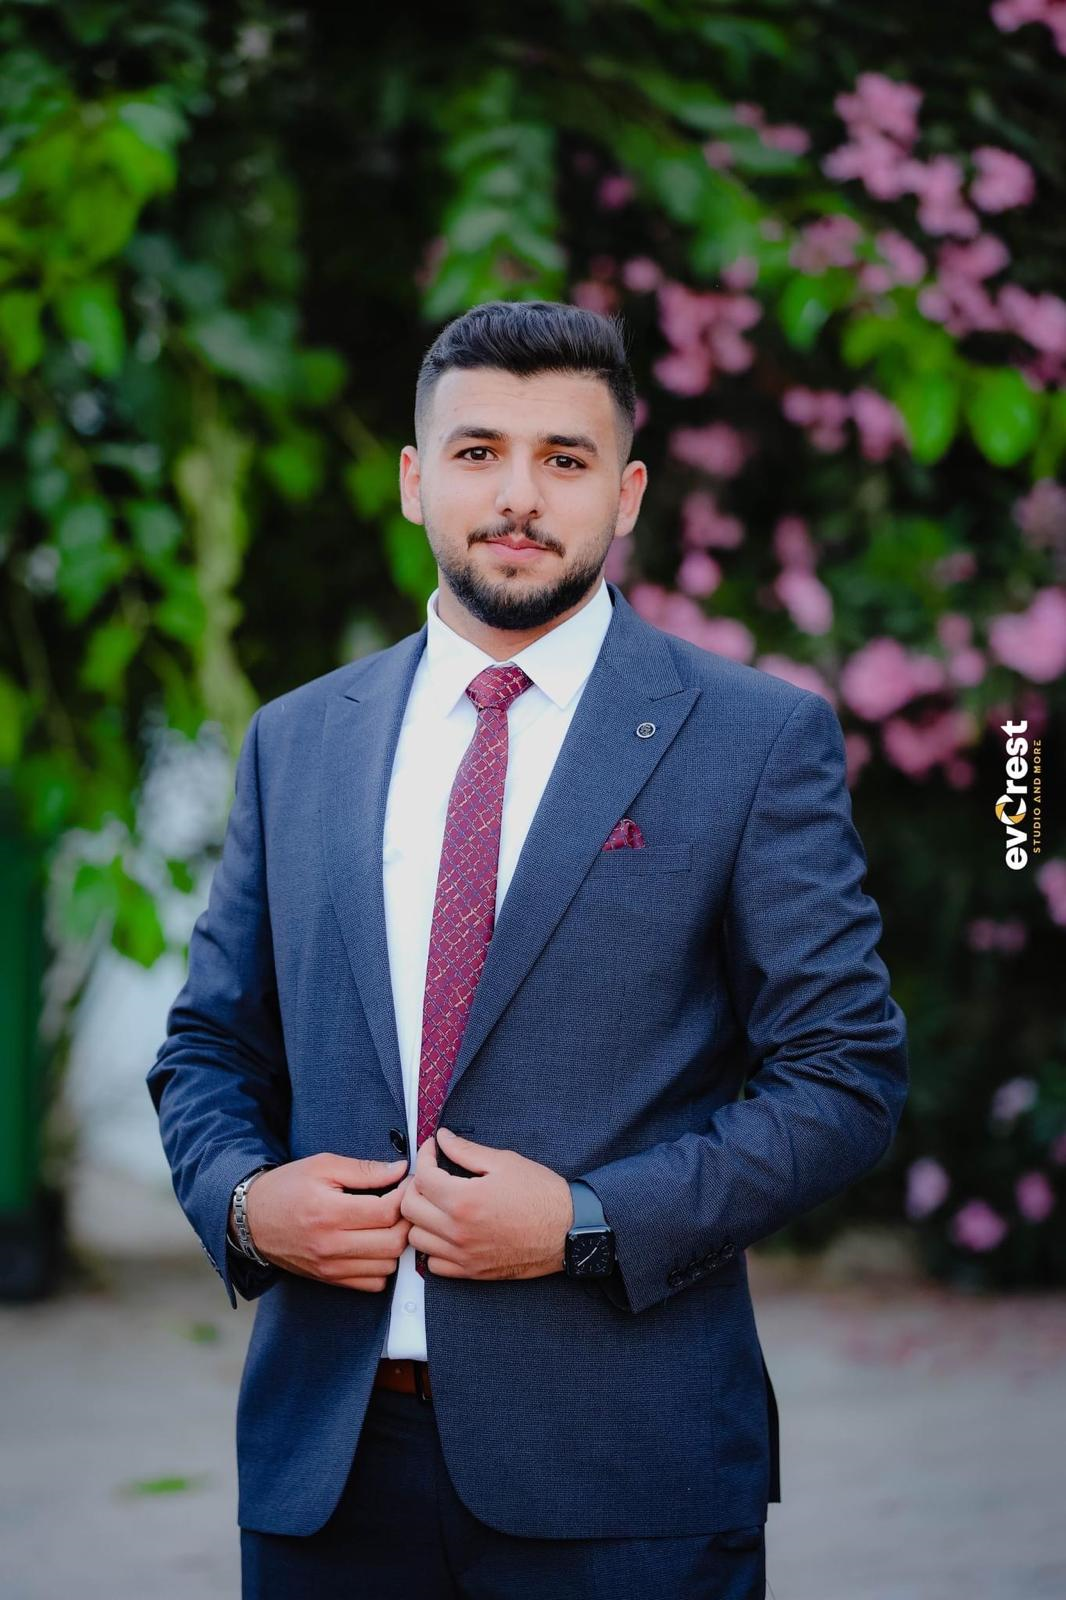
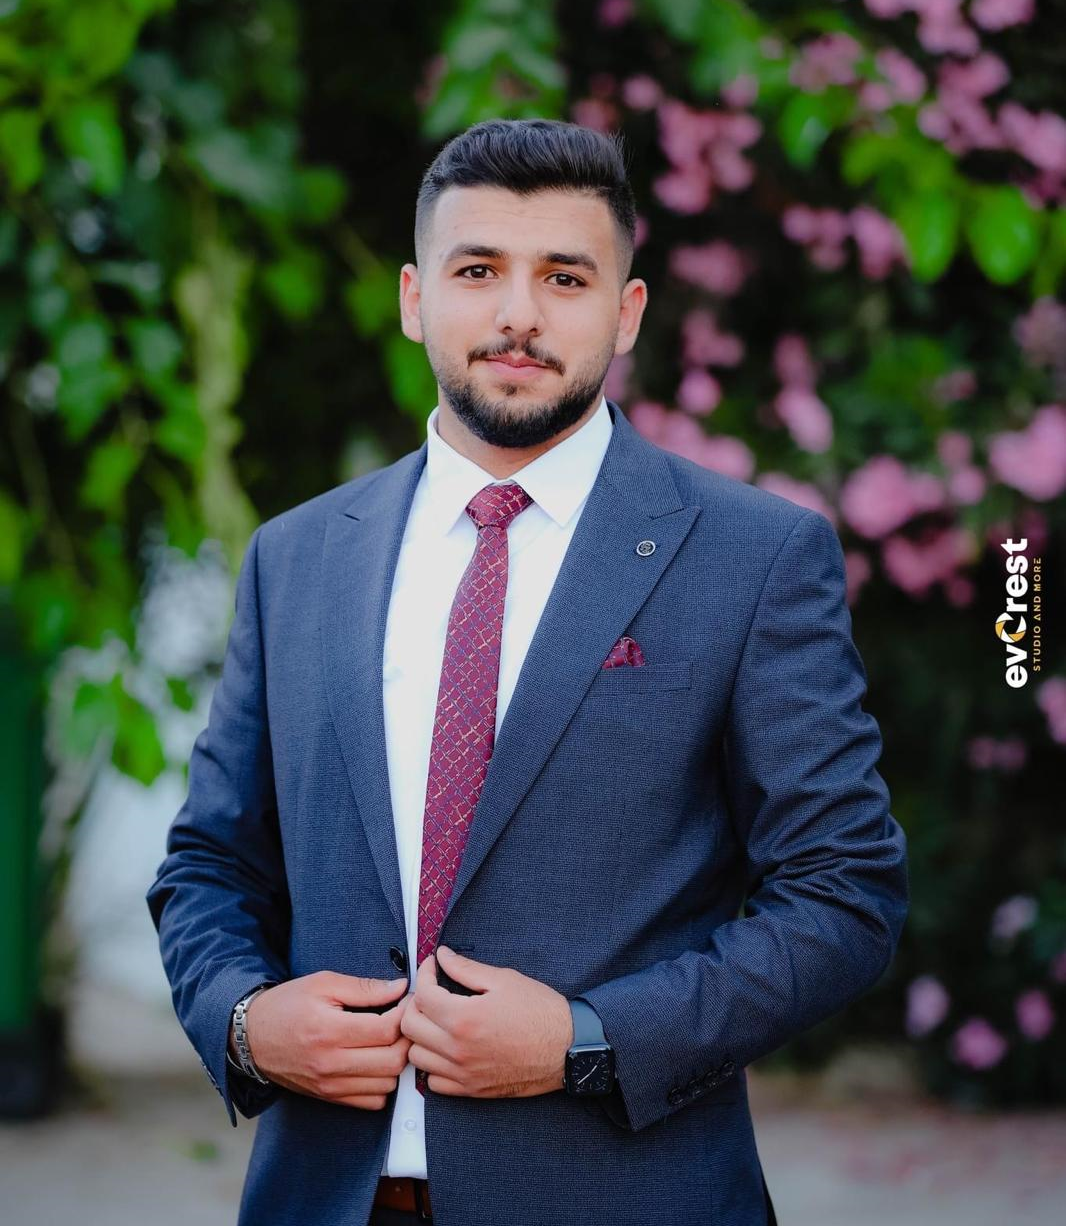
adding pictures

diff --git a/main_ar.html b/main_ar.html
@@ -62,7 +62,6 @@
                             <li>مشروع (Stack & Queue Applications - Data Structure.)</li>
                             <li>مشروع (Trees & Hash Applications - Data Sturcture.)</li>
                             <li>مشروع (Graphs Implementation & Applications - Data Structure.)</li>
-                            <li>مشروع (Linear Equations Solver using MIPS - Computer Architecture.)</li>
                         </ul>
                         <h2>المهارات: </h2>
                         <ul>
@@ -88,7 +87,6 @@
                             <li>مشروع (Stack & Queue Applications - Data Structure.)</li>
                             <li>مشروع (Trees & Hash Applications - Data Sturcture.)</li>
                             <li>مشروع (Graphs Implementation & Applications - Data Structure.)</li>
-                            <li>مشروع (Linear Equations Solver using MIPS - Computer Architecture.)</li>
                         </ul>
                         <h2>المهارات: </h2>
                         <ul>
@@ -99,7 +97,7 @@
                         </ul>
                     </div>
                     <div class="Picture">
-                        <img src="./images/Mohammed.png" alt="Mohammed Saada">
+                        <img src="./images/Mohammad.png" alt="Mohammed Saada">
                     </div>
                 </div>
                 <a class="ritajBT_ar" href="https://ritaj.birzeit.edu/">موقع ريتاج </a>
@@ -139,7 +137,7 @@
 
                 <img src="./images/http.jpg" alt="http request">
                 <a class="ritajBT_ar" href="https://gaia.cs.umass.edu/kurose_ross/index.php"> كتاب شبكات الحاسوب </a>
-                <h2>: HTTP أنواع اتصال بروتوكول</h2>
+                <h2> HTTP أنواع اتصال بروتوكول:</h2>
                 <ol>
                     <li>(HTTP with Non-Persistent Connection.)</li>
                     <li>(HTTP with Persistent Connection.)</li>

diff --git a/main_en.html b/main_en.html
@@ -72,7 +72,7 @@
                         </ul>
                     </div>
                     <div class="Picture">
-                        <img src="./images/Mohammed.png" alt="Mohammed Saada">
+                        <img src="./images/Raseel.png" alt="Mohammed Saada">
                     </div>
                 </div>
                 <div class="member">
@@ -97,7 +97,7 @@
                         </ul>
                     </div>
                     <div class="Picture">
-                        <img src="./images/Mohammed.png" alt="Mohammed Saada">
+                        <img src="./images/Mohammad.png" alt="Mohammed Saada">
                     </div>
                 </div>
 

diff --git a/supporting_material_ar.html b/supporting_material_ar.html
@@ -10,7 +10,7 @@
 
 <body class="body2">
     <h1>مواد داعمة </h1>
-    <p>ادخل اسم الصورة أو الفيديو المراد_نحن سوف نجده لك!</p>
+    <p>!ادخل اسم الصورة أو الفيديو المراد _ نحن سوف نجده لك</p>
 
     <form method="GET" action="request_handler">
         <label for="material">ادخل اسم الملف</label>

diff --git a/main.css b/main.css
@@ -120,7 +120,7 @@ h1 {
 
 .member img {
     border-radius: 50%;
-    width: 150%;
+    width: 120%;
     height: 50vh;
     margin-top: 10%;
 }
